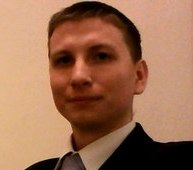
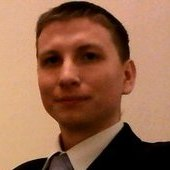
image optimization

diff --git a/index.html b/index.html
@@ -127,9 +127,9 @@
                     </ul>
                     <div class="social_wrap">
                         <ul>
-                            <li><a href="#" target="_blank"><i class="fa fa-google-plus"></i></a></li>
-                            <li><a href="#" target="_blank"><i class="fa fa-facebook"></i></a></li>
-                            <li><a href="#" target="_blank"><i class="fa fa-github"></i></a></li>
+                            <li><a href="https://plus.google.com/u/0/116625980084294341082" target="_blank"><i class="fa fa-google-plus"></i></a></li>
+                            <li><a href="https://www.facebook.com/yuriy.kostenyuk.1" target="_blank"><i class="fa fa-facebook"></i></a></li>
+                            <li><a href="https://github.com/Jerzy89/Jerzy89.github.io" target="_blank"><i class="fa fa-github"></i></a></li>
                         </ul>
                     </div>
                 </div>
